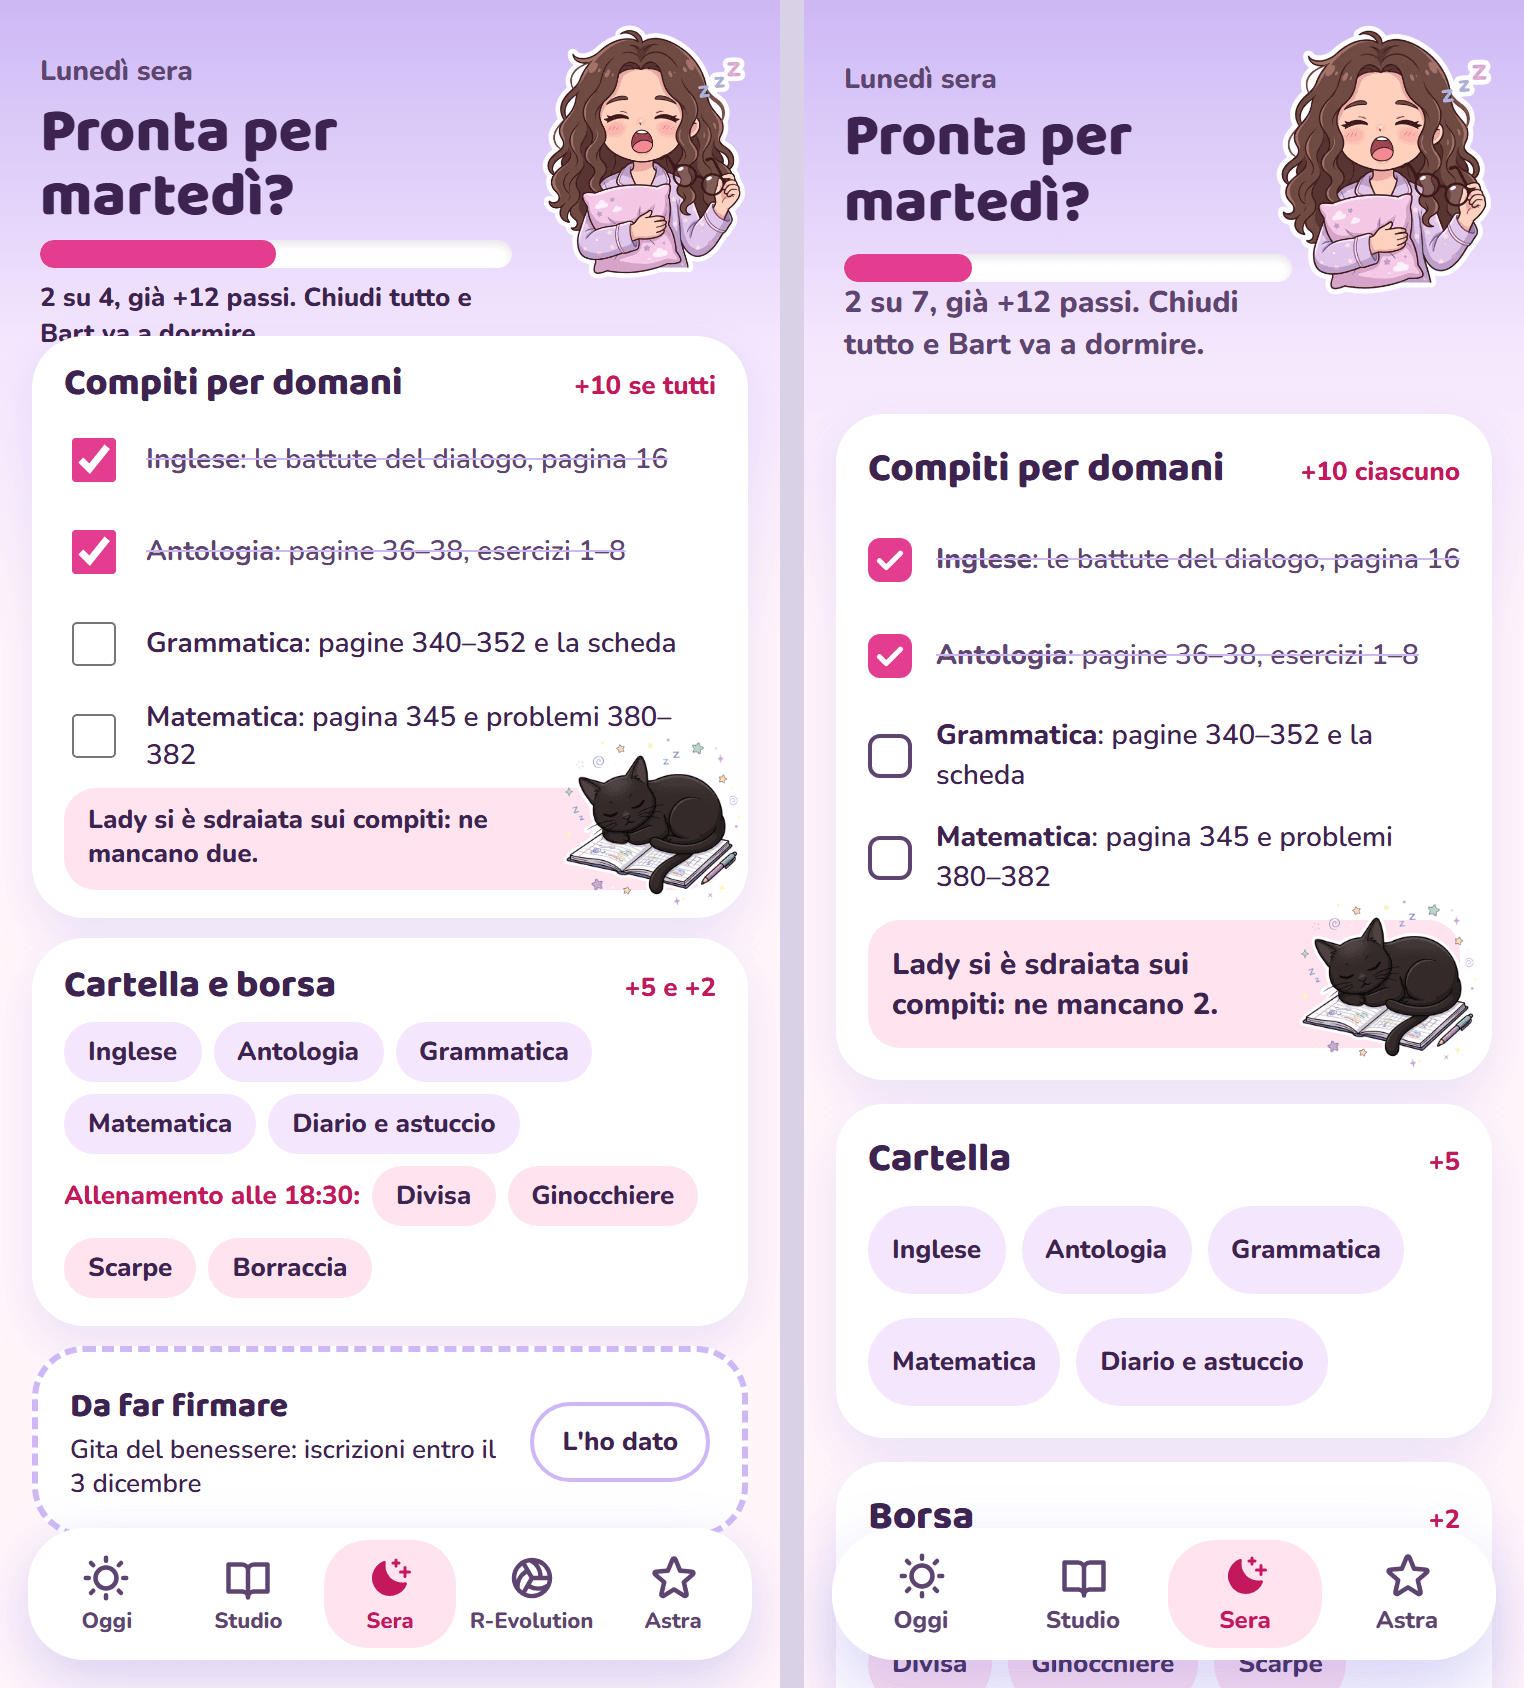
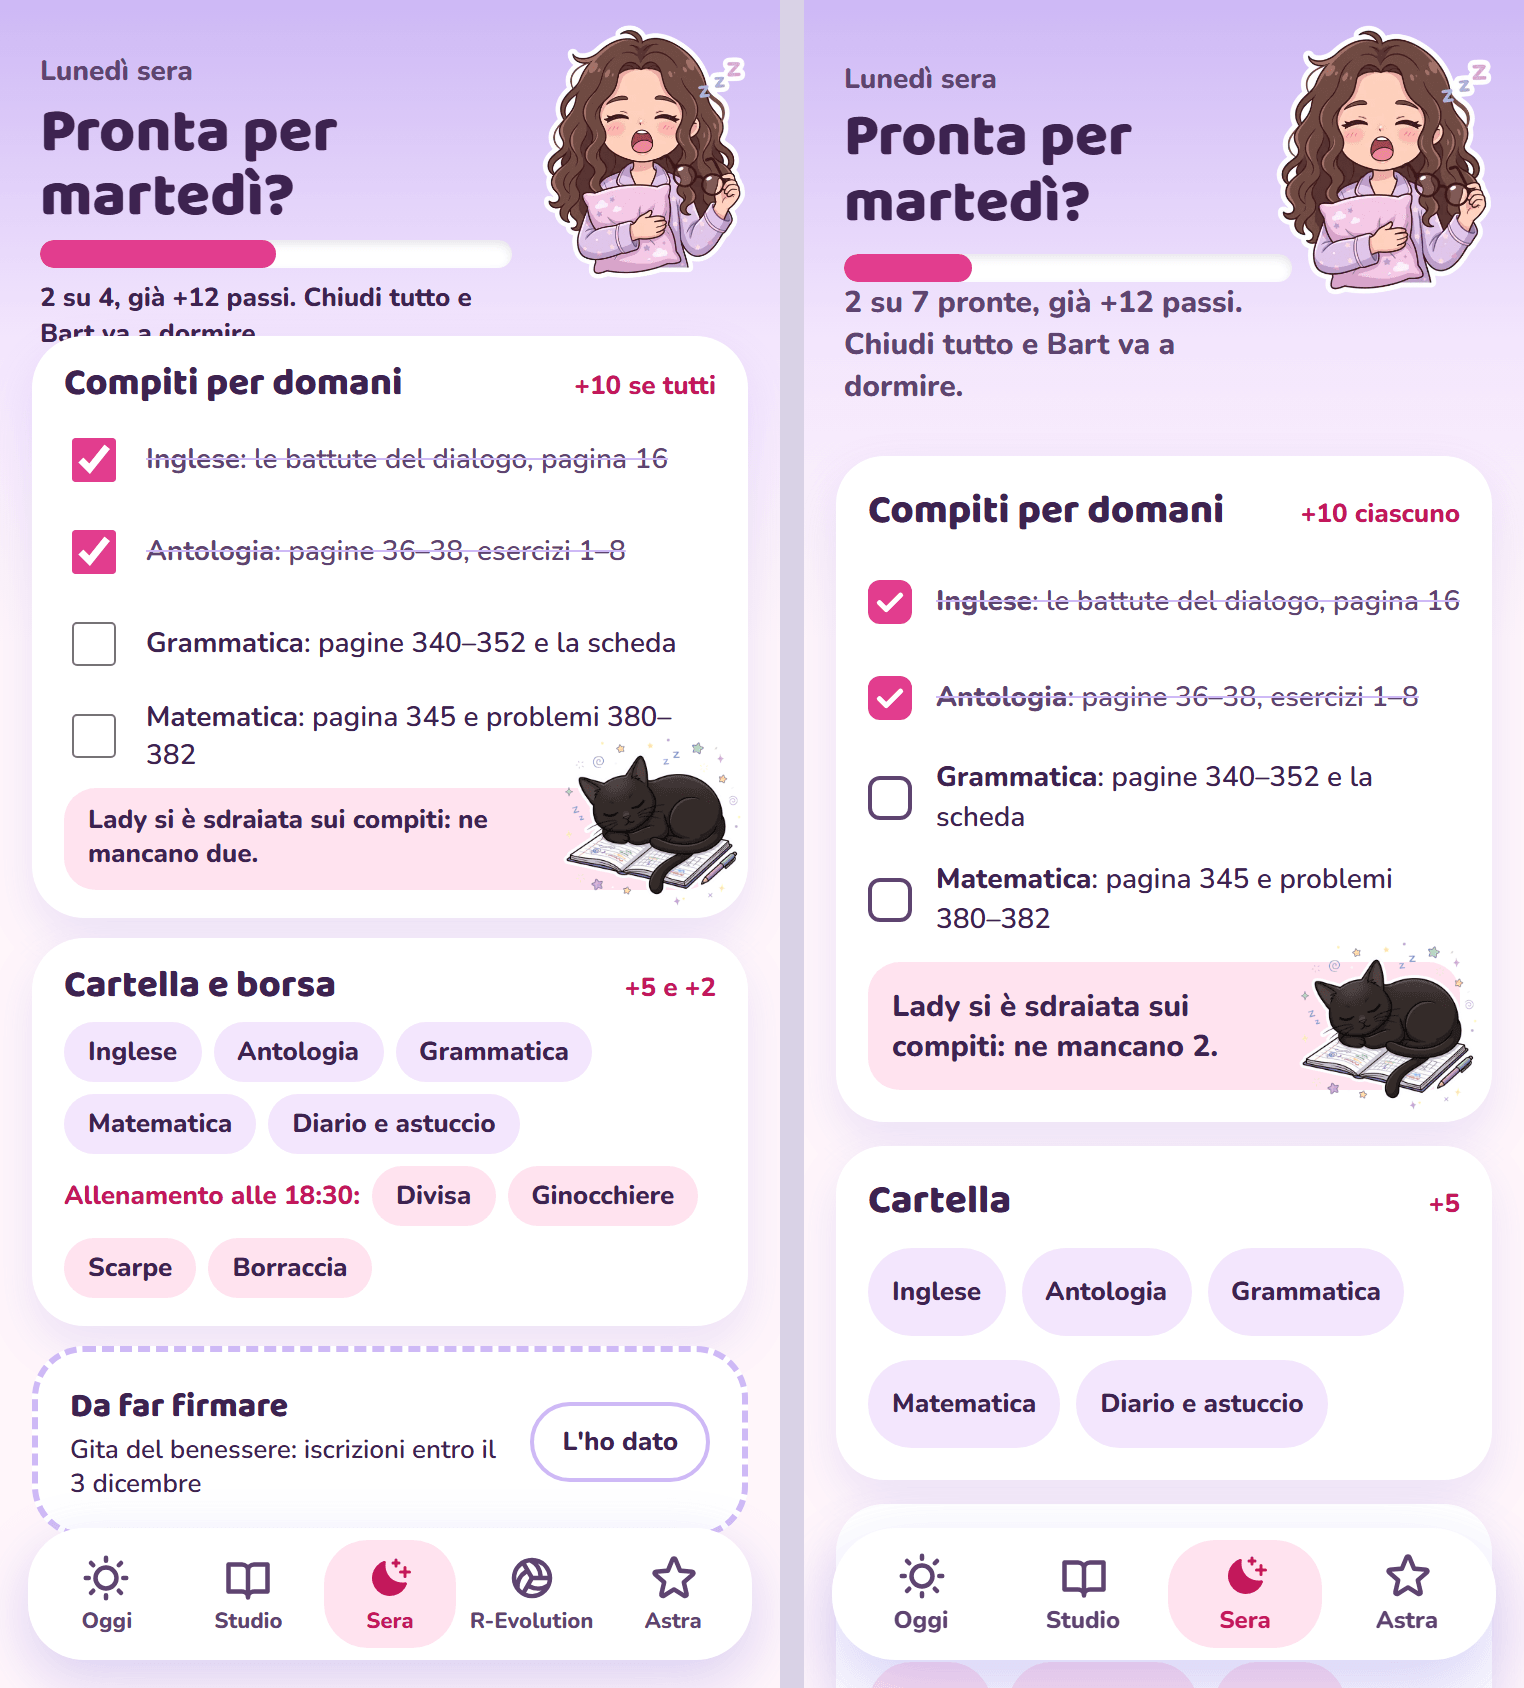
Sera "2 su 7 pronte" e pillola dei passi centrata
Contatore della Sera più chiaro (ok del signore, 10/11). Pillola del saldo con padding uguale ai lati: il contenuto era 3 px a sinistra. La figurina di Astra resta 3 px sotto come nella bozza Main (busto nel cerchio).

diff --git a/e2e/sera.e2e.ts b/e2e/sera.e2e.ts
@@ -45,7 +45,7 @@ test('la sera mostra compiti, cartella del lunedì e fogli', async ({ page }) =>
   await page.getByRole('button', { name: 'Sera' }).click();
 
   await expect(page.getByRole('heading', { name: 'Pronta per lunedì?' })).toBeVisible();
-  await expect(page.getByText('0 su 5')).toBeVisible();
+  await expect(page.getByText('0 su 5 pronte')).toBeVisible();
   await expect(page.getByText('Pag 12 es 3')).toBeVisible();
   await expect(page.getByText('Per mercoledì')).toHaveCount(0);
   // frase della bozza (design/Domani.html), messa dopo la critique del 10/11
@@ -65,7 +65,7 @@ test('spunte: subito visibili, salvate, e la funzione passi chiamata', async ({ 
 
   await page.getByRole('checkbox', { name: /Pag 12 es 3/ }).check();
   await expect(page.getByRole('checkbox', { name: /Pag 12 es 3/ })).toBeDisabled();
-  await expect(page.getByText('1 su 5')).toBeVisible();
+  await expect(page.getByText('1 su 5 pronte')).toBeVisible();
   await expect(page.getByRole('button', { name: 'Annulla' })).toBeVisible();
   expect(t.compiti[0].fatto_il).toBeNull(); // non ancora inviata
   await page.clock.runFor(5100);
@@ -75,7 +75,7 @@ test('spunte: subito visibili, salvate, e la funzione passi chiamata', async ({ 
   for (const voce of ['Italiano', 'Tecnologia', 'Matematica']) await cartella.getByRole('checkbox', { name: voce, exact: typeof voce === 'string' }).check();
   expect(t.serate).toHaveLength(0); // la cartella è pronta solo con l'ultima voce
   await cartella.getByRole('checkbox', { name: 'Cartellina di tecnologia' }).check();
-  await expect(page.getByText('2 su 5')).toBeVisible();
+  await expect(page.getByText('2 su 5 pronte')).toBeVisible();
   await page.clock.runFor(5100);
   await expect.poll(() => t.serate[0]).toMatchObject({ data: '2026-11-08' });
 
@@ -112,7 +112,7 @@ test('borsa dal calendario: domani allenamento alle 15, la porti a scuola', asyn
   await expect(borsa.getByText('Allenamento domani alle 15:00: la porti a scuola.')).toBeVisible();
   await expect(page.getByText('Domani in famiglia: Tennis Leonardo alle 17:30.', { exact: false })).toBeVisible();
   for (const voce of ['Divisa', 'Ginocchiere', 'Scarpe', 'Borraccia']) await borsa.getByRole('checkbox', { name: voce }).check();
-  await expect(page.getByText('1 su 5')).toBeVisible();
+  await expect(page.getByText('1 su 5 pronte')).toBeVisible();
   await page.clock.runFor(5100);
   await expect.poll(() => t.serate[0]?.borsa_il).toBeTruthy();
   await expect.poll(() => chiamate).toEqual([{ tipo: 'serata', id: '2026-11-08' }]);
@@ -126,7 +126,7 @@ test('senza allenamenti domani la borsa non c’è', async ({ page }) => {
   await page.getByRole('button', { name: 'Sera' }).click();
   await expect(page.getByRole('heading', { name: 'Pronta per lunedì?' })).toBeVisible();
   await expect(page.getByRole('heading', { name: 'Borsa' })).toHaveCount(0);
-  await expect(page.getByText('0 su 4')).toBeVisible();
+  await expect(page.getByText('0 su 4 pronte')).toBeVisible();
 });
 
 test('venerdì con partita sabato: chiusura breve con la sola borsa', async ({ page }) => {
@@ -141,7 +141,7 @@ test('venerdì con partita sabato: chiusura breve con la sola borsa', async ({ p
   await expect(page.getByRole('heading', { name: 'Borsa' })).toBeVisible();
   await expect(page.getByText('Partita domani alle 18:30.')).toBeVisible();
   await expect(page.getByRole('heading', { name: 'Compiti per domani' })).toHaveCount(0);
-  await expect(page.getByText('0 su 1')).toBeVisible();
+  await expect(page.getByText('0 su 1 pronte')).toBeVisible();
 });
 
 test('Annulla entro 5 secondi: la spunta non parte', async ({ page }) => {

diff --git a/src/stile.css b/src/stile.css
@@ -320,7 +320,7 @@ body[data-sfondo='viola'] .indietro { padding: 0 14px 0 10px; border-radius: 999
 .chiavi-settimana { display: flex; align-items: center; gap: 8px; margin: 12px 0 0; }
 .chiavi-settimana small { font: 800 13px/1.2 Nunito, sans-serif; color: var(--testo-2); max-width: 90px; }
 .chiavi-settimana > span { display: flex; }
-.saldo { display: flex; align-items: center; gap: 6px; padding: 4px 14px 4px 8px; border: 3px solid var(--rosa-bordo); border-radius: 999px; }
+.saldo { display: flex; align-items: center; gap: 6px; padding: 4px 11px; border: 3px solid var(--rosa-bordo); border-radius: 999px; }
 .saldo b { font: 800 20px/1 'Baloo 2', Nunito, sans-serif; color: var(--accento); font-variant-numeric: tabular-nums; }
 .testata .saldo { align-self: flex-start; display: inline-flex; margin-top: 8px; background: #fff; }
 /* passi che salgono: il numero conta da solo (Contapassi), il "+N" sale e svanisce */

diff --git a/src/Sera.tsx b/src/Sera.tsx
@@ -193,7 +193,7 @@ export default function Sera() {
                 <span style={{ width: `${(fatte / cose) * 100}%` }} />
               </div>
               <p className="conto">
-                {fatte} su {cose}
+                {fatte} su {cose} pronte
                 {passiOggi > 0 && `, già +${passiOggi} passi`}.{fatte < cose && ' Chiudi tutto e Bart va a dormire.'}
               </p>
             </>
